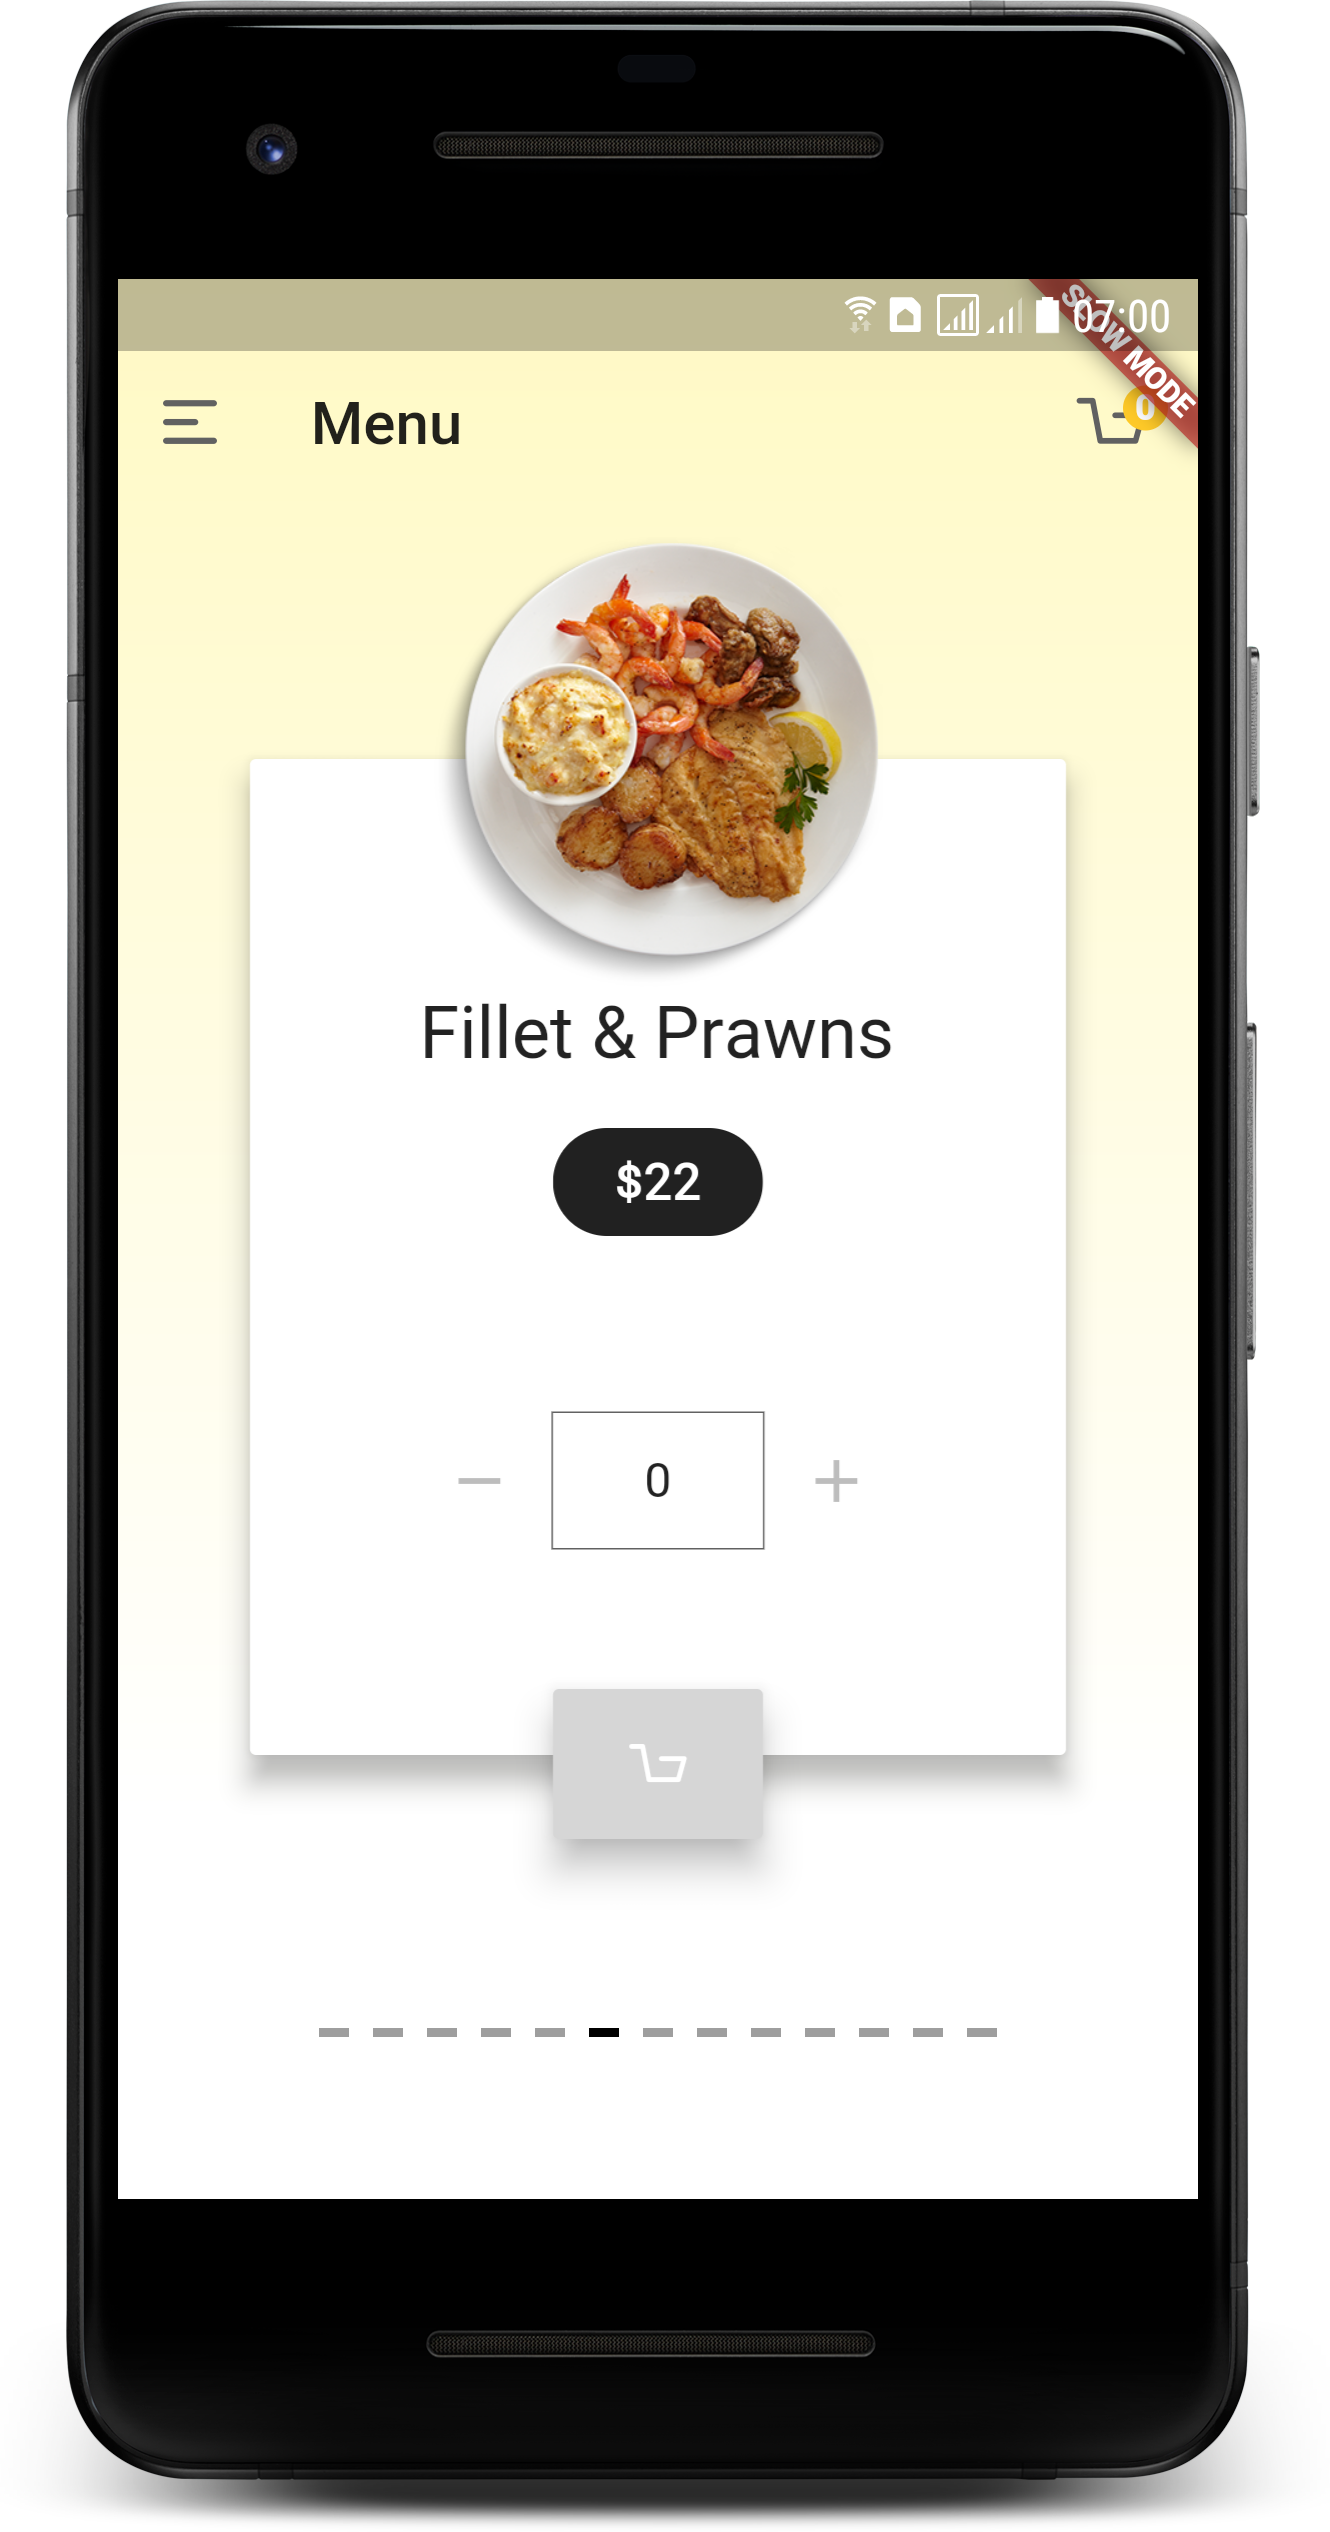
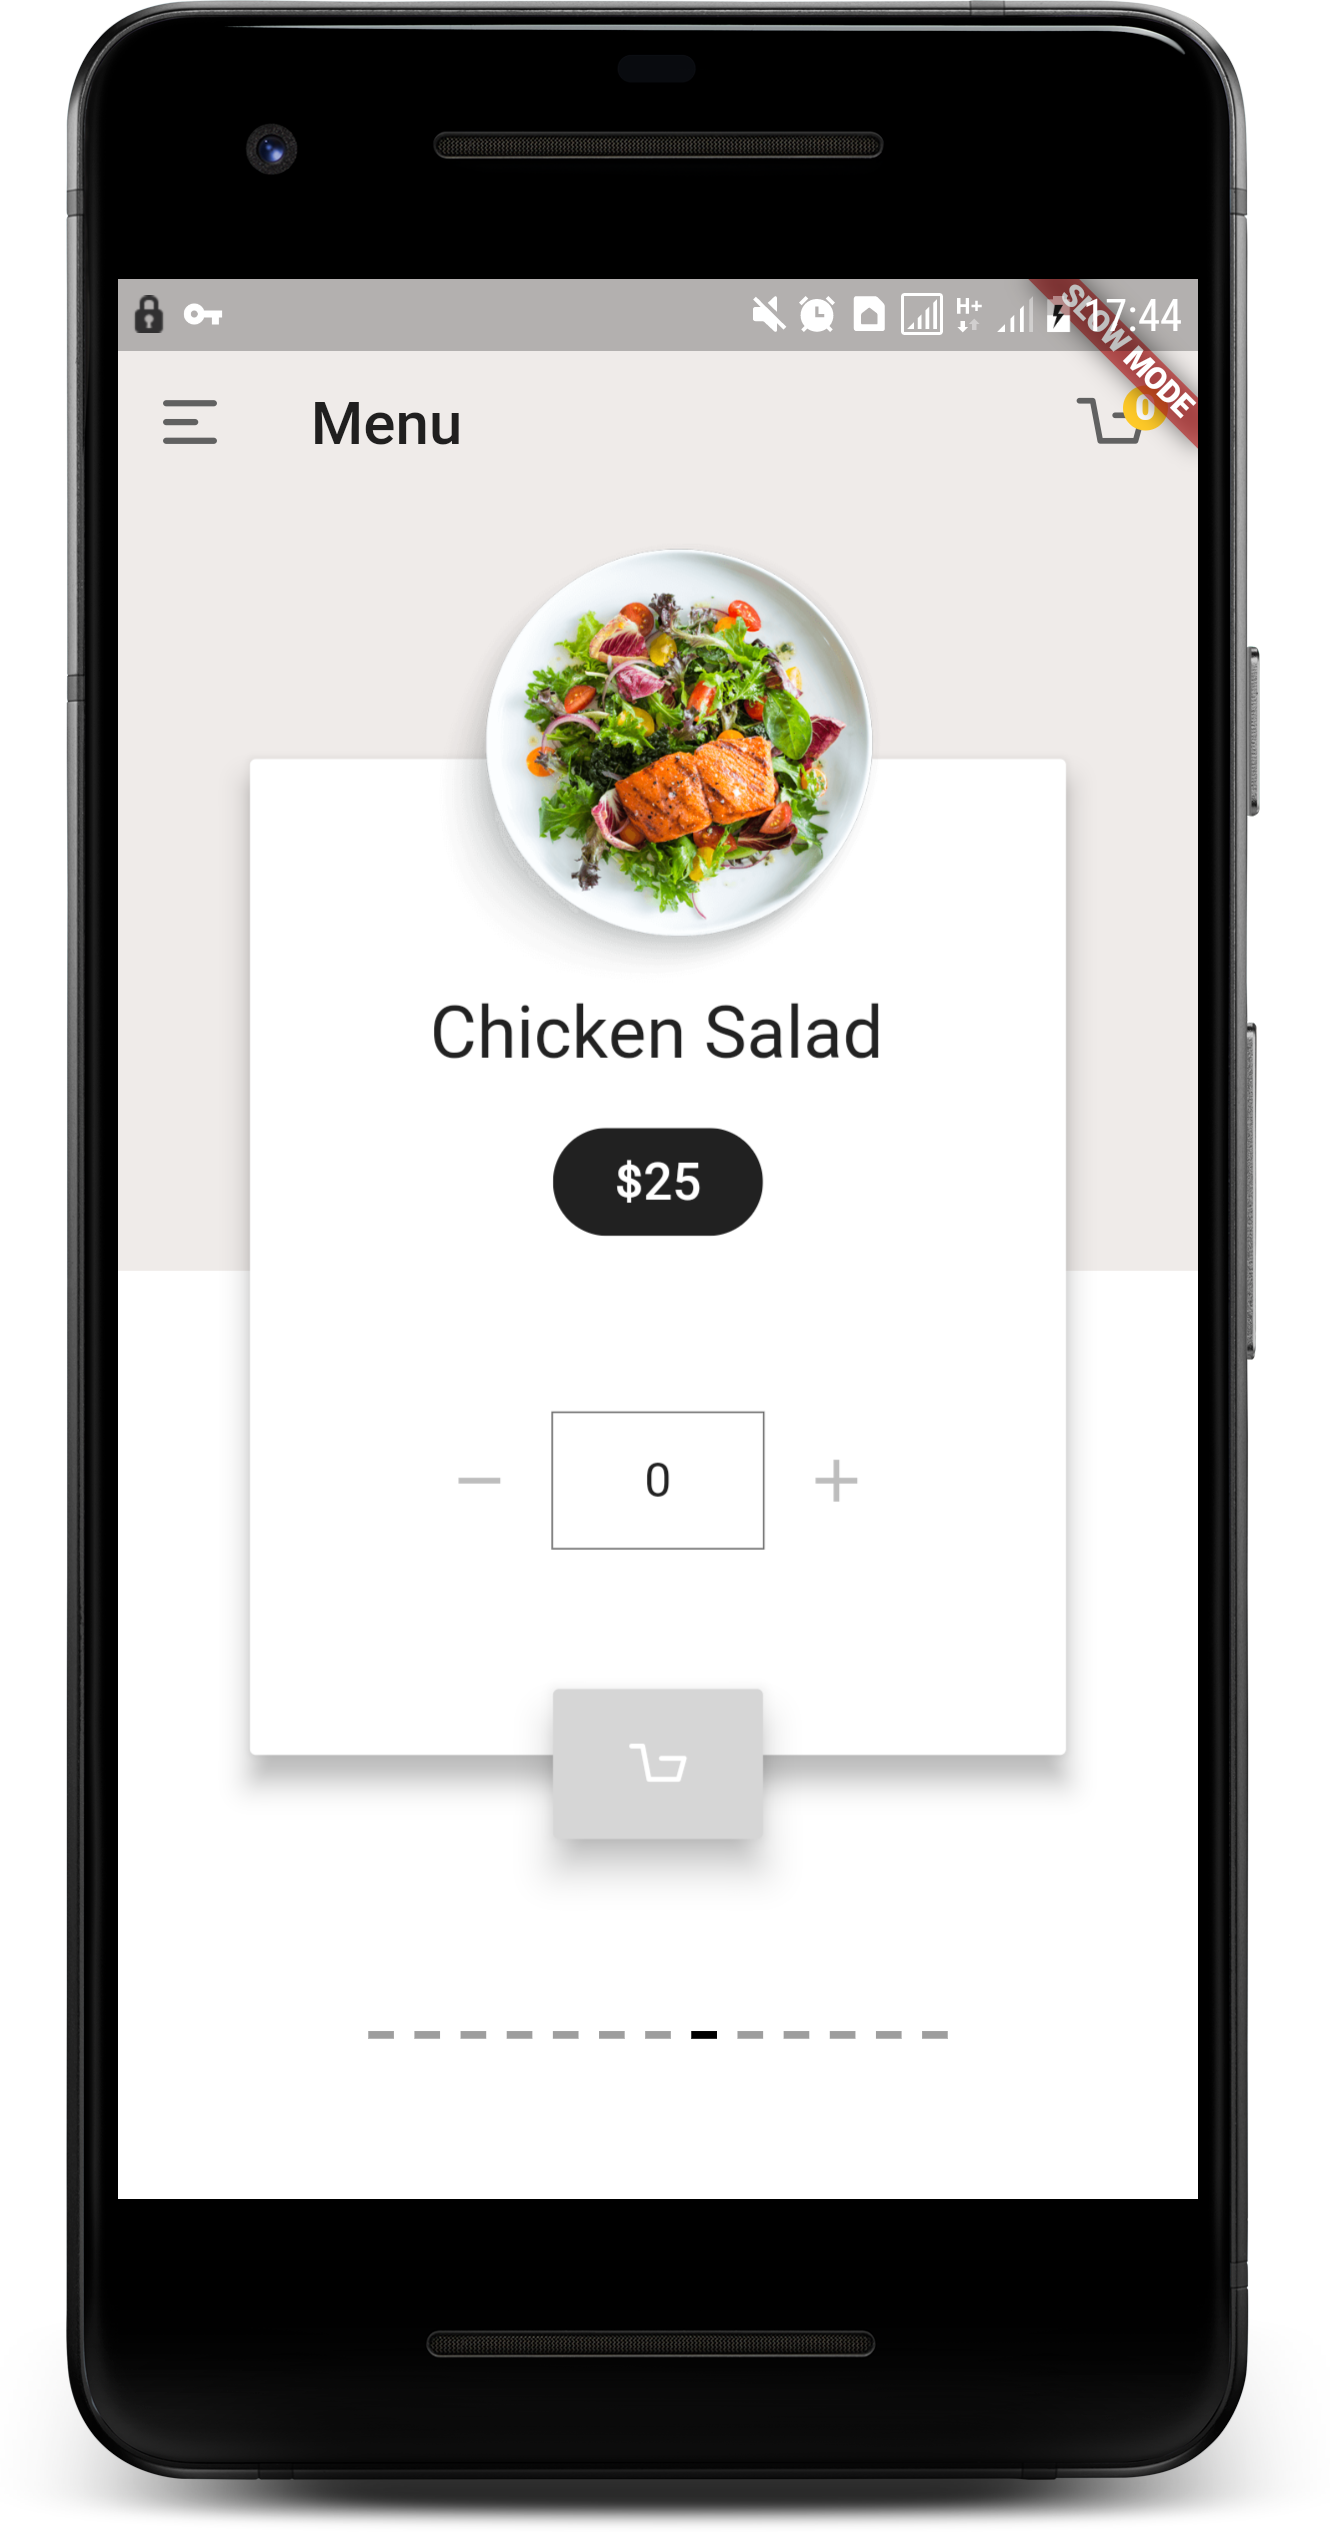
replaced gradient with solid color on background

Changed region(s): [[0.0617, 0.0936, 0.9248, 0.468], [0.3699, 0.78, 0.4008, 0.8112]]

diff --git a/lib/ui/newPager.dart b/lib/ui/newPager.dart
@@ -18,16 +18,22 @@ class MenuPager extends StatelessWidget {
       body: new Container(
         padding: new EdgeInsets.only(top: 16.0,),
         decoration: new BoxDecoration(
-          gradient: new LinearGradient(colors: [Colors.yellow[100],Colors.white],
-              begin: const FractionalOffset(0.0, 0.0),
-              end: const FractionalOffset(0.0, 0.8),
-              stops: [0.0,1.0],
-              tileMode: TileMode.clamp
-          ),
+          color: Colors.brown[50]
         ),
         child: new Stack(
           alignment: FractionalOffset.bottomCenter,
           children: <Widget>[
+            new Container(
+                padding: const EdgeInsets.only(top: 250.0, right: 80.0, left: 80.0, bottom: 50.0),
+                decoration: new BoxDecoration(
+                    color: Colors.white
+                ),
+                margin: new EdgeInsets.only(
+                    top: 50.0,
+                    bottom: 0.0
+                ),
+                child: new RectangleIndicator(controller, Menu.menu.length, 0.0, Colors.grey, Colors.black)
+            ),
             new PageView(
               controller: controller,
                 children: Menu.menu.map((Food food) {
@@ -50,13 +56,6 @@ class MenuPager extends StatelessWidget {
                     ),
                   );
                 }).toList()
-            ),
-            new Container(
-                margin: new EdgeInsets.only(
-                  top: 50.0,
-                  bottom: 50.0,
-                ),
-                child: new RectangleIndicator(controller, Menu.menu.length, 0.0, Colors.grey, Colors.black)
             ),
           ],
         ),
